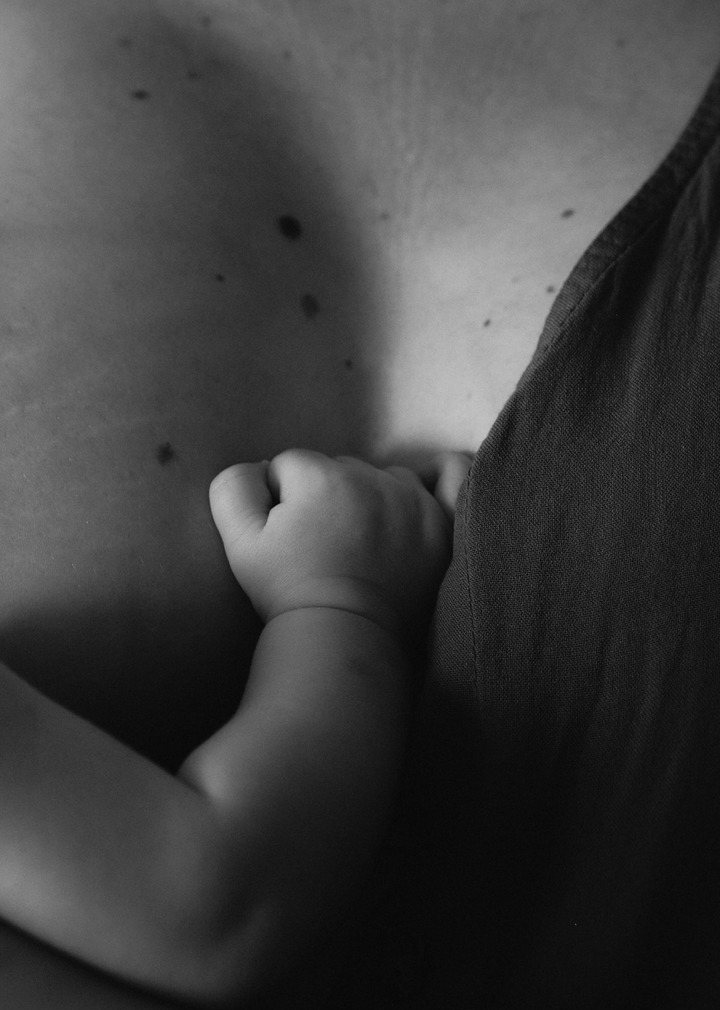
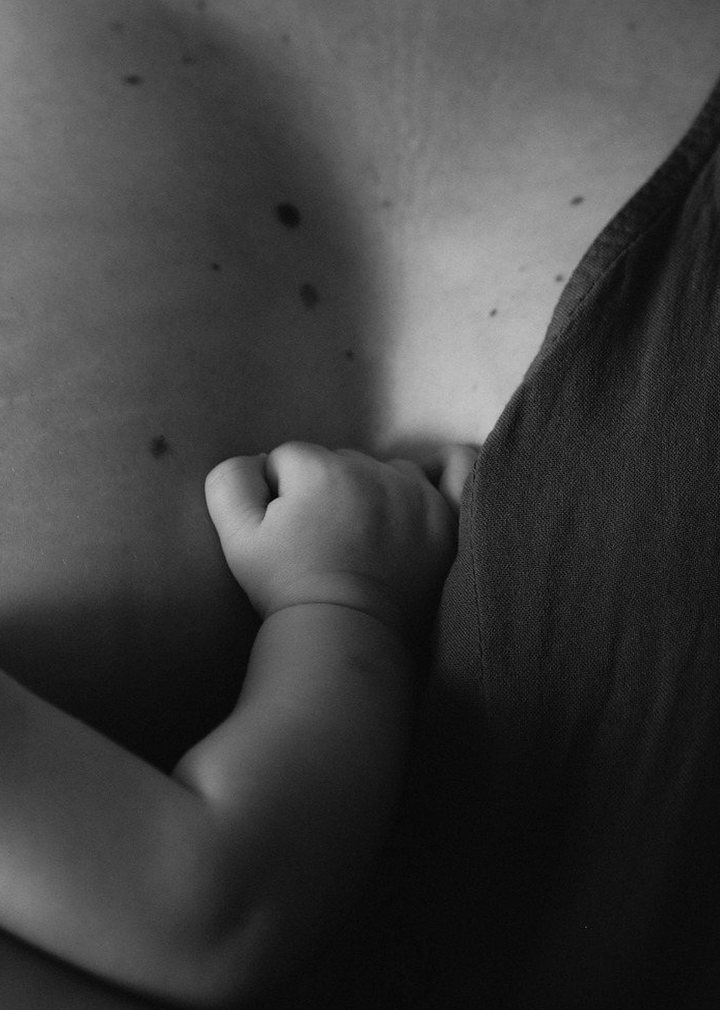
Alinea color i B/N de les fotos nuvis i maneta (mateix enquadrament)
Claude-Session: https://claude.ai/code/session_01Gu4fKh15S1mJkh4ThjJ3MW

diff --git a/index.html b/index.html
@@ -258,7 +258,7 @@ body,.page{color:#f2ecde}
 <header class="bar" aria-hidden="true"><a class="wm" href="#inici">Pau Fotografia</a><nav><a href="#contacte" data-t="cont">Contacte</a></nav></header>
 <main class="page" id="inici">
   <section class="hero">
-    <picture><source media="(min-width:1200px)" srcset="/pack/hero-wide.jpg?v=20261118j"><img src="/pack/hero.jpg?v=20261118j" alt="Pau amb ulleres, fons desenfocat i una finestra nítida sobre mig rostre" fetchpriority="high"></picture>
+    <picture><source media="(min-width:1200px)" srcset="/pack/hero-wide.jpg?v=20261119a"><img src="/pack/hero.jpg?v=20261119a" alt="Pau amb ulleres, fons desenfocat i una finestra nítida sobre mig rostre" fetchpriority="high"></picture>
     <div class="top"><div class="sm" data-t="tag">Fotògraf social i documental</div>
       <div class="ctrls"><div class="toggle lang" role="group" aria-label="Idioma"><button class="on" data-lang="ca">CAT</button><span>|</span><button data-lang="es">ESP</button><span>|</span><button data-lang="en">ENG</button></div></div></div>
     <h1>Pau Fotografia</h1>
@@ -269,14 +269,14 @@ body,.page{color:#f2ecde}
     <div class="quote"><p data-t="quote">«El document humà per mantenir el present i el futur en contacte amb el passat.»</p><div class="lb">Lewis Hine</div></div>
   </section>
   <div class="hl"></div>
-  <div class="slider multi sl-elvi" style="aspect-ratio:1080/1150"><div class="track"><figure class="slide"><img class="b" data-v="elvi" src="/pack/elvi-color.jpg?v=20261118j" alt="Elvi somrient amb un floc de cabell davant la cara" loading="eager" style="object-position:50% 30%"><img class="o" data-v="elvi" src="/pack/elvi-bn.jpg?v=20261118j" alt="" aria-hidden="true" loading="lazy" style="object-position:50% 30%"><button class="sw" type="button" aria-label="Veure en blanc i negre"><i></i></button></figure><figure class="slide"><img class="b" data-v="elvi-01" src="/pack/elvi-01-color.jpg?v=20261118j" alt="Elvi amb les mans als cabells" loading="lazy" style="object-position:50% 30%"><img class="o" data-v="elvi-01" src="/pack/elvi-01-bn.jpg?v=20261118j" alt="" aria-hidden="true" loading="lazy" style="object-position:50% 30%"><button class="sw" type="button" aria-label="Veure en blanc i negre"><i></i></button></figure><figure class="slide"><img class="b" data-v="elvi-03" src="/pack/elvi-03-color.jpg?v=20261118j" alt="Elvi mirant de reüll" loading="lazy" style="object-position:50% 30%"><img class="o" data-v="elvi-03" src="/pack/elvi-03-bn.jpg?v=20261118j" alt="" aria-hidden="true" loading="lazy" style="object-position:50% 30%"><button class="sw" type="button" aria-label="Veure en blanc i negre"><i></i></button></figure><figure class="slide"><img class="b" data-v="elvi-04" src="/pack/elvi-04-color.jpg?v=20261118j" alt="Elvi de perfil a la finestra" loading="lazy" style="object-position:50% 30%"><img class="o" data-v="elvi-04" src="/pack/elvi-04-bn.jpg?v=20261118j" alt="" aria-hidden="true" loading="lazy" style="object-position:50% 30%"><button class="sw" type="button" aria-label="Veure en blanc i negre"><i></i></button></figure><figure class="slide"><img class="b" data-v="elvi-05" src="/pack/elvi-05-color.jpg?v=20261118j" alt="Elvi amb la llum de la cortina" loading="lazy" style="object-position:50% 30%"><img class="o" data-v="elvi-05" src="/pack/elvi-05-bn.jpg?v=20261118j" alt="" aria-hidden="true" loading="lazy" style="object-position:50% 30%"><button class="sw" type="button" aria-label="Veure en blanc i negre"><i></i></button></figure></div><div class="dots"><i class=on></i><i></i><i></i><i></i><i></i></div><div class="count">1/5</div><button class="nav prev" aria-label="Anterior">‹</button><button class="nav next" aria-label="Següent">›</button></div>
+  <div class="slider multi sl-elvi" style="aspect-ratio:1080/1150"><div class="track"><figure class="slide"><img class="b" data-v="elvi" src="/pack/elvi-color.jpg?v=20261119a" alt="Elvi somrient amb un floc de cabell davant la cara" loading="eager" style="object-position:50% 30%"><img class="o" data-v="elvi" src="/pack/elvi-bn.jpg?v=20261119a" alt="" aria-hidden="true" loading="lazy" style="object-position:50% 30%"><button class="sw" type="button" aria-label="Veure en blanc i negre"><i></i></button></figure><figure class="slide"><img class="b" data-v="elvi-01" src="/pack/elvi-01-color.jpg?v=20261119a" alt="Elvi amb les mans als cabells" loading="lazy" style="object-position:50% 30%"><img class="o" data-v="elvi-01" src="/pack/elvi-01-bn.jpg?v=20261119a" alt="" aria-hidden="true" loading="lazy" style="object-position:50% 30%"><button class="sw" type="button" aria-label="Veure en blanc i negre"><i></i></button></figure><figure class="slide"><img class="b" data-v="elvi-03" src="/pack/elvi-03-color.jpg?v=20261119a" alt="Elvi mirant de reüll" loading="lazy" style="object-position:50% 30%"><img class="o" data-v="elvi-03" src="/pack/elvi-03-bn.jpg?v=20261119a" alt="" aria-hidden="true" loading="lazy" style="object-position:50% 30%"><button class="sw" type="button" aria-label="Veure en blanc i negre"><i></i></button></figure><figure class="slide"><img class="b" data-v="elvi-04" src="/pack/elvi-04-color.jpg?v=20261119a" alt="Elvi de perfil a la finestra" loading="lazy" style="object-position:50% 30%"><img class="o" data-v="elvi-04" src="/pack/elvi-04-bn.jpg?v=20261119a" alt="" aria-hidden="true" loading="lazy" style="object-position:50% 30%"><button class="sw" type="button" aria-label="Veure en blanc i negre"><i></i></button></figure><figure class="slide"><img class="b" data-v="elvi-05" src="/pack/elvi-05-color.jpg?v=20261119a" alt="Elvi amb la llum de la cortina" loading="lazy" style="object-position:50% 30%"><img class="o" data-v="elvi-05" src="/pack/elvi-05-bn.jpg?v=20261119a" alt="" aria-hidden="true" loading="lazy" style="object-position:50% 30%"><button class="sw" type="button" aria-label="Veure en blanc i negre"><i></i></button></figure></div><div class="dots"><i class=on></i><i></i><i></i><i></i><i></i></div><div class="count">1/5</div><button class="nav prev" aria-label="Anterior">‹</button><button class="nav next" aria-label="Següent">›</button></div>
   <div class="hl"></div>
   <section class="com pad">
     <div class="lb" data-t="com">Com treballo</div>
     <p class="body" data-t="ct">Sense estudi ni decorats, als llocs quotidians i còmodes. Tu tries l'espai i el vestuari. Jo m'adapto i interfereixo el mínim perquè la càmera no sigui un obstacle per captar aquell gest, somriure o mirada espontània i real.</p>
   </section>
   <div class="hl"></div>
-  <div class="pair"><div class="slider multi sl-nuvis" style="aspect-ratio:540/720"><div class="track"><figure class="slide"><img class="b" data-v="nuvis" src="/pack/nuvis-color.jpg?v=20261118j" alt="Parella de nuvis rient a la porta" loading="lazy" style="object-position:50% 50%"><img class="o" data-v="nuvis" src="/pack/nuvis-bn.jpg?v=20261118j" alt="" aria-hidden="true" loading="lazy" style="object-position:50% 50%"><button class="sw" type="button" aria-label="Veure en blanc i negre"><i></i></button></figure><figure class="slide"><img class="b" data-v="casament-pandemia-05" src="/pack/casament-pandemia-05-color.jpg?v=20261118j" alt="Nuvis amb mascareta" loading="lazy" style="object-position:50% 50%"><img class="o" data-v="casament-pandemia-05" src="/pack/casament-pandemia-05-bn.jpg?v=20261118j" alt="" aria-hidden="true" loading="lazy" style="object-position:50% 50%"><button class="sw" type="button" aria-label="Veure en blanc i negre"><i></i></button></figure><figure class="slide mono"><img class="b" data-v="casament-pandemia-01" src="/pack/casament-pandemia-01-bn.jpg?v=20261118j" alt="Pentinat davant del mirall" loading="lazy" style="object-position:50% 50%"></figure><figure class="slide mono"><img class="b" data-v="casament-pandemia-02" src="/pack/casament-pandemia-02-bn.jpg?v=20261118j" alt="Ajustant el vestit" loading="lazy" style="object-position:50% 100%"></figure><figure class="slide mono"><img class="b" data-v="casament-pandemia-08" src="/pack/casament-pandemia-08-bn.jpg?v=20261118j" alt="La cerimònia" loading="lazy" style="object-position:50% 50%"></figure><figure class="slide"><img class="b" data-v="casament-pandemia-03" src="/pack/casament-pandemia-03-color.jpg?v=20261118j" alt="Baixant les escales" loading="lazy" style="object-position:50% 50%"><img class="o" data-v="casament-pandemia-03" src="/pack/casament-pandemia-03-bn.jpg?v=20261118j" alt="" aria-hidden="true" loading="lazy" style="object-position:50% 50%"><button class="sw" type="button" aria-label="Veure en blanc i negre"><i></i></button></figure><figure class="slide mono"><img class="b" data-v="casament-pandemia-04" src="/pack/casament-pandemia-04-bn.jpg?v=20261118j" alt="Sortida entre arròs" loading="lazy" style="object-position:50% 50%"></figure><figure class="slide"><img class="b" data-v="casament-pandemia-09" src="/pack/casament-pandemia-09-color.jpg?v=20261118j" alt="Rient a la porta" loading="lazy" style="object-position:50% 50%"><img class="o" data-v="casament-pandemia-09" src="/pack/casament-pandemia-09-bn.jpg?v=20261118j" alt="" aria-hidden="true" loading="lazy" style="object-position:50% 50%"><button class="sw" type="button" aria-label="Veure en blanc i negre"><i></i></button></figure></div><div class="dots"><i class=on></i><i></i><i></i><i></i><i></i><i></i><i></i><i></i></div><div class="count">1/8</div><button class="nav prev" aria-label="Anterior">‹</button><button class="nav next" aria-label="Següent">›</button></div><div class="slider multi sl-maneta" style="aspect-ratio:540/720"><div class="track"><figure class="slide"><img class="b" data-v="maneta" src="/pack/maneta-color.jpg?v=20261118j" alt="Mà d’un nadó sobre la pell" loading="lazy" style="object-position:50% 50%"><img class="o" data-v="maneta" src="/pack/maneta-bn.jpg?v=20261118j" alt="" aria-hidden="true" loading="lazy" style="object-position:50% 50%"><button class="sw" type="button" aria-label="Veure en blanc i negre"><i></i></button></figure><figure class="slide mono"><img class="b" data-v="bebe-01" src="/pack/bebe-01-bn.jpg?v=20261118j" alt="Un germà gran mirant el nadó" loading="lazy" style="object-position:50% 45%"></figure><figure class="slide mono"><img class="b" data-v="bebe-02" src="/pack/bebe-02-bn.jpg?v=20261118j" alt="Un nadó mamant als braços de la mare" loading="lazy" style="object-position:50% 40%"></figure><figure class="slide mono"><img class="b" data-v="bebe-03" src="/pack/bebe-03-bn.jpg?v=20261118j" alt="El braç i el puny d’un nadó" loading="lazy" style="object-position:50% 50%"></figure><figure class="slide mono"><img class="b" data-v="familia-05" src="/pack/familia-05-bn.jpg?v=20261118j" alt="Peus petits" loading="lazy" style="object-position:50% 50%"></figure><figure class="slide"><img class="b" data-v="familia-07" src="/pack/familia-07-color.jpg?v=20261118j" alt="La mà a l’esquena" loading="lazy" style="object-position:50% 50%"><img class="o" data-v="familia-07" src="/pack/familia-07-bn.jpg?v=20261118j" alt="" aria-hidden="true" loading="lazy" style="object-position:50% 50%"><button class="sw" type="button" aria-label="Veure en blanc i negre"><i></i></button></figure></div><div class="dots"><i class=on></i><i></i><i></i><i></i><i></i><i></i></div><div class="count">1/6</div><button class="nav prev" aria-label="Anterior">‹</button><button class="nav next" aria-label="Següent">›</button></div></div>
+  <div class="pair"><div class="slider multi sl-nuvis" style="aspect-ratio:540/720"><div class="track"><figure class="slide"><img class="b" data-v="nuvis" src="/pack/nuvis-color.jpg?v=20261119a" alt="Parella de nuvis rient a la porta" loading="lazy" style="object-position:50% 50%"><img class="o" data-v="nuvis" src="/pack/nuvis-bn.jpg?v=20261119a" alt="" aria-hidden="true" loading="lazy" style="object-position:50% 50%"><button class="sw" type="button" aria-label="Veure en blanc i negre"><i></i></button></figure><figure class="slide"><img class="b" data-v="casament-pandemia-05" src="/pack/casament-pandemia-05-color.jpg?v=20261119a" alt="Nuvis amb mascareta" loading="lazy" style="object-position:50% 50%"><img class="o" data-v="casament-pandemia-05" src="/pack/casament-pandemia-05-bn.jpg?v=20261119a" alt="" aria-hidden="true" loading="lazy" style="object-position:50% 50%"><button class="sw" type="button" aria-label="Veure en blanc i negre"><i></i></button></figure><figure class="slide mono"><img class="b" data-v="casament-pandemia-01" src="/pack/casament-pandemia-01-bn.jpg?v=20261119a" alt="Pentinat davant del mirall" loading="lazy" style="object-position:50% 50%"></figure><figure class="slide mono"><img class="b" data-v="casament-pandemia-02" src="/pack/casament-pandemia-02-bn.jpg?v=20261119a" alt="Ajustant el vestit" loading="lazy" style="object-position:50% 100%"></figure><figure class="slide mono"><img class="b" data-v="casament-pandemia-08" src="/pack/casament-pandemia-08-bn.jpg?v=20261119a" alt="La cerimònia" loading="lazy" style="object-position:50% 50%"></figure><figure class="slide"><img class="b" data-v="casament-pandemia-03" src="/pack/casament-pandemia-03-color.jpg?v=20261119a" alt="Baixant les escales" loading="lazy" style="object-position:50% 50%"><img class="o" data-v="casament-pandemia-03" src="/pack/casament-pandemia-03-bn.jpg?v=20261119a" alt="" aria-hidden="true" loading="lazy" style="object-position:50% 50%"><button class="sw" type="button" aria-label="Veure en blanc i negre"><i></i></button></figure><figure class="slide mono"><img class="b" data-v="casament-pandemia-04" src="/pack/casament-pandemia-04-bn.jpg?v=20261119a" alt="Sortida entre arròs" loading="lazy" style="object-position:50% 50%"></figure><figure class="slide"><img class="b" data-v="casament-pandemia-09" src="/pack/casament-pandemia-09-color.jpg?v=20261119a" alt="Rient a la porta" loading="lazy" style="object-position:50% 50%"><img class="o" data-v="casament-pandemia-09" src="/pack/casament-pandemia-09-bn.jpg?v=20261119a" alt="" aria-hidden="true" loading="lazy" style="object-position:50% 50%"><button class="sw" type="button" aria-label="Veure en blanc i negre"><i></i></button></figure></div><div class="dots"><i class=on></i><i></i><i></i><i></i><i></i><i></i><i></i><i></i></div><div class="count">1/8</div><button class="nav prev" aria-label="Anterior">‹</button><button class="nav next" aria-label="Següent">›</button></div><div class="slider multi sl-maneta" style="aspect-ratio:540/720"><div class="track"><figure class="slide"><img class="b" data-v="maneta" src="/pack/maneta-color.jpg?v=20261119a" alt="Mà d’un nadó sobre la pell" loading="lazy" style="object-position:50% 50%"><img class="o" data-v="maneta" src="/pack/maneta-bn.jpg?v=20261119a" alt="" aria-hidden="true" loading="lazy" style="object-position:50% 50%"><button class="sw" type="button" aria-label="Veure en blanc i negre"><i></i></button></figure><figure class="slide mono"><img class="b" data-v="bebe-01" src="/pack/bebe-01-bn.jpg?v=20261119a" alt="Un germà gran mirant el nadó" loading="lazy" style="object-position:50% 45%"></figure><figure class="slide mono"><img class="b" data-v="bebe-02" src="/pack/bebe-02-bn.jpg?v=20261119a" alt="Un nadó mamant als braços de la mare" loading="lazy" style="object-position:50% 40%"></figure><figure class="slide mono"><img class="b" data-v="bebe-03" src="/pack/bebe-03-bn.jpg?v=20261119a" alt="El braç i el puny d’un nadó" loading="lazy" style="object-position:50% 50%"></figure><figure class="slide mono"><img class="b" data-v="familia-05" src="/pack/familia-05-bn.jpg?v=20261119a" alt="Peus petits" loading="lazy" style="object-position:50% 50%"></figure><figure class="slide"><img class="b" data-v="familia-07" src="/pack/familia-07-color.jpg?v=20261119a" alt="La mà a l’esquena" loading="lazy" style="object-position:50% 50%"><img class="o" data-v="familia-07" src="/pack/familia-07-bn.jpg?v=20261119a" alt="" aria-hidden="true" loading="lazy" style="object-position:50% 50%"><button class="sw" type="button" aria-label="Veure en blanc i negre"><i></i></button></figure></div><div class="dots"><i class=on></i><i></i><i></i><i></i><i></i><i></i></div><div class="count">1/6</div><button class="nav prev" aria-label="Anterior">‹</button><button class="nav next" aria-label="Següent">›</button></div></div>
   <div class="hl"></div>
   <section class="pack">
     <div class="prow"><button class="pill" type="button" aria-haspopup="dialog"><span data-t="pack">Pack promocional – Llançament</span><i class="pplus" aria-hidden="true"></i></button><div class="price">89 €<span class="ast">*</span></div>
@@ -284,9 +284,9 @@ body,.page{color:#f2ecde}
     <div class="ptypes" data-t="tipus"><span>Retrat</span><i>·</i><span>Família</span><i>·</i><span>Embaràs</span><i>·</i><span>Parella</span></div>
   </section>
   <div class="hl"></div>
-  <div class="slider sl-mocador" style="aspect-ratio:1080/720"><div class="track"><figure class="slide"><img class="b" data-v="mocador" src="/pack/mocador-color.jpg?v=20261118j" alt="Retrat d’una dona amb mocador entre el fum" loading="lazy" style="object-position:50% 40%"><img class="o" data-v="mocador" src="/pack/mocador-bn.jpg?v=20261118j" alt="" aria-hidden="true" loading="lazy" style="object-position:50% 40%"><button class="sw" type="button" aria-label="Veure en blanc i negre"><i></i></button></figure></div></div>
+  <div class="slider sl-mocador" style="aspect-ratio:1080/720"><div class="track"><figure class="slide"><img class="b" data-v="mocador" src="/pack/mocador-color.jpg?v=20261119a" alt="Retrat d’una dona amb mocador entre el fum" loading="lazy" style="object-position:50% 40%"><img class="o" data-v="mocador" src="/pack/mocador-bn.jpg?v=20261119a" alt="" aria-hidden="true" loading="lazy" style="object-position:50% 40%"><button class="sw" type="button" aria-label="Veure en blanc i negre"><i></i></button></figure></div></div>
   <div class="hl"></div>
-  <div class="pair"><div class="slider multi sl-ulleres" style="aspect-ratio:540/720"><div class="track"><figure class="slide"><img class="b" data-v="ulleres" src="/pack/ulleres-color.jpg?v=20261118j" alt="Home rient amb ulleres de sol" loading="lazy" style="object-position:50% 50%"><img class="o" data-v="ulleres" src="/pack/ulleres-bn.jpg?v=20261118j" alt="" aria-hidden="true" loading="lazy" style="object-position:50% 50%"><button class="sw" type="button" aria-label="Veure en blanc i negre"><i></i></button></figure><figure class="slide"><img class="b" data-v="llum-desembre-05" src="/pack/llum-desembre-05-color.jpg?v=20261118j" alt="Cara al sol" loading="lazy" style="object-position:64% 50%"><img class="o" data-v="llum-desembre-05" src="/pack/llum-desembre-05-bn.jpg?v=20261118j" alt="" aria-hidden="true" loading="lazy" style="object-position:64% 50%"><button class="sw" type="button" aria-label="Veure en blanc i negre"><i></i></button></figure><figure class="slide"><img class="b" data-v="llum-desembre-02" src="/pack/llum-desembre-02-color.jpg?v=20261118j" alt="Somriure amb caputxa" loading="lazy" style="object-position:52% 50%"><img class="o" data-v="llum-desembre-02" src="/pack/llum-desembre-02-bn.jpg?v=20261118j" alt="" aria-hidden="true" loading="lazy" style="object-position:52% 50%"><button class="sw" type="button" aria-label="Veure en blanc i negre"><i></i></button></figure><figure class="slide"><img class="b" data-v="llum-desembre-04" src="/pack/llum-desembre-04-color.jpg?v=20261118j" alt="Per sobre de les ulleres" loading="lazy" style="object-position:56% 50%"><img class="o" data-v="llum-desembre-04" src="/pack/llum-desembre-04-bn.jpg?v=20261118j" alt="" aria-hidden="true" loading="lazy" style="object-position:56% 50%"><button class="sw" type="button" aria-label="Veure en blanc i negre"><i></i></button></figure><figure class="slide"><img class="b" data-v="llum-desembre-01" src="/pack/llum-desembre-01-color.jpg?v=20261118j" alt="Mitja cara a la llum" loading="lazy" style="object-position:54% 50%"><img class="o" data-v="llum-desembre-01" src="/pack/llum-desembre-01-bn.jpg?v=20261118j" alt="" aria-hidden="true" loading="lazy" style="object-position:54% 50%"><button class="sw" type="button" aria-label="Veure en blanc i negre"><i></i></button></figure></div><div class="dots"><i class=on></i><i></i><i></i><i></i><i></i></div><div class="count">1/5</div><button class="nav prev" aria-label="Anterior">‹</button><button class="nav next" aria-label="Següent">›</button></div><div class="slider multi sl-confeti" style="aspect-ratio:540/720"><div class="track"><figure class="slide"><img class="b" data-v="confeti" src="/pack/confeti-color.jpg?v=20261118j" alt="Nuvis sortint entre confeti amb el ram a l’aire" loading="lazy" style="object-position:64% 50%"><img class="o" data-v="confeti" src="/pack/confeti-bn.jpg?v=20261118j" alt="" aria-hidden="true" loading="lazy" style="object-position:64% 50%"><button class="sw" type="button" aria-label="Veure en blanc i negre"><i></i></button></figure><figure class="slide"><img class="b" data-v="casament-01" src="/pack/casament-01-color.jpg?v=20261118j" alt="Sortida entre confeti" loading="lazy" style="object-position:55% 50%"><img class="o" data-v="casament-01" src="/pack/casament-01-bn.jpg?v=20261118j" alt="" aria-hidden="true" loading="lazy" style="object-position:55% 50%"><button class="sw" type="button" aria-label="Veure en blanc i negre"><i></i></button></figure></div><div class="dots"><i class=on></i><i></i></div><div class="count">1/2</div><button class="nav prev" aria-label="Anterior">‹</button><button class="nav next" aria-label="Següent">›</button></div></div>
+  <div class="pair"><div class="slider multi sl-ulleres" style="aspect-ratio:540/720"><div class="track"><figure class="slide"><img class="b" data-v="ulleres" src="/pack/ulleres-color.jpg?v=20261119a" alt="Home rient amb ulleres de sol" loading="lazy" style="object-position:50% 50%"><img class="o" data-v="ulleres" src="/pack/ulleres-bn.jpg?v=20261119a" alt="" aria-hidden="true" loading="lazy" style="object-position:50% 50%"><button class="sw" type="button" aria-label="Veure en blanc i negre"><i></i></button></figure><figure class="slide"><img class="b" data-v="llum-desembre-05" src="/pack/llum-desembre-05-color.jpg?v=20261119a" alt="Cara al sol" loading="lazy" style="object-position:64% 50%"><img class="o" data-v="llum-desembre-05" src="/pack/llum-desembre-05-bn.jpg?v=20261119a" alt="" aria-hidden="true" loading="lazy" style="object-position:64% 50%"><button class="sw" type="button" aria-label="Veure en blanc i negre"><i></i></button></figure><figure class="slide"><img class="b" data-v="llum-desembre-02" src="/pack/llum-desembre-02-color.jpg?v=20261119a" alt="Somriure amb caputxa" loading="lazy" style="object-position:52% 50%"><img class="o" data-v="llum-desembre-02" src="/pack/llum-desembre-02-bn.jpg?v=20261119a" alt="" aria-hidden="true" loading="lazy" style="object-position:52% 50%"><button class="sw" type="button" aria-label="Veure en blanc i negre"><i></i></button></figure><figure class="slide"><img class="b" data-v="llum-desembre-04" src="/pack/llum-desembre-04-color.jpg?v=20261119a" alt="Per sobre de les ulleres" loading="lazy" style="object-position:56% 50%"><img class="o" data-v="llum-desembre-04" src="/pack/llum-desembre-04-bn.jpg?v=20261119a" alt="" aria-hidden="true" loading="lazy" style="object-position:56% 50%"><button class="sw" type="button" aria-label="Veure en blanc i negre"><i></i></button></figure><figure class="slide"><img class="b" data-v="llum-desembre-01" src="/pack/llum-desembre-01-color.jpg?v=20261119a" alt="Mitja cara a la llum" loading="lazy" style="object-position:54% 50%"><img class="o" data-v="llum-desembre-01" src="/pack/llum-desembre-01-bn.jpg?v=20261119a" alt="" aria-hidden="true" loading="lazy" style="object-position:54% 50%"><button class="sw" type="button" aria-label="Veure en blanc i negre"><i></i></button></figure></div><div class="dots"><i class=on></i><i></i><i></i><i></i><i></i></div><div class="count">1/5</div><button class="nav prev" aria-label="Anterior">‹</button><button class="nav next" aria-label="Següent">›</button></div><div class="slider multi sl-confeti" style="aspect-ratio:540/720"><div class="track"><figure class="slide"><img class="b" data-v="confeti" src="/pack/confeti-color.jpg?v=20261119a" alt="Nuvis sortint entre confeti amb el ram a l’aire" loading="lazy" style="object-position:64% 50%"><img class="o" data-v="confeti" src="/pack/confeti-bn.jpg?v=20261119a" alt="" aria-hidden="true" loading="lazy" style="object-position:64% 50%"><button class="sw" type="button" aria-label="Veure en blanc i negre"><i></i></button></figure><figure class="slide"><img class="b" data-v="casament-01" src="/pack/casament-01-color.jpg?v=20261119a" alt="Sortida entre confeti" loading="lazy" style="object-position:55% 50%"><img class="o" data-v="casament-01" src="/pack/casament-01-bn.jpg?v=20261119a" alt="" aria-hidden="true" loading="lazy" style="object-position:55% 50%"><button class="sw" type="button" aria-label="Veure en blanc i negre"><i></i></button></figure></div><div class="dots"><i class=on></i><i></i></div><div class="count">1/2</div><button class="nav prev" aria-label="Anterior">‹</button><button class="nav next" aria-label="Següent">›</button></div></div>
   <div class="hl"></div>
   <section class="contact pad" id="contacte">
     <div class="gear">
@@ -323,7 +323,7 @@ document.querySelectorAll('.slider.multi').forEach(function(s){
 var MODE='color';
 function L(){var l=document.documentElement.lang;return {ca:{swb:'Veure en blanc i negre',swc:'Veure en color'},es:{swb:'Ver en blanco y negro',swc:'Ver en color'},en:{swb:'View in black and white',swc:'View in colour'}}[l]||{swb:'Veure en blanc i negre',swc:'Veure en color'}}
 function other(){return MODE==='bn'?'color':'bn'}
-function src2(o){return '/pack/'+o.dataset.v+'-'+other()+'.jpg?v=20261118j'}
+function src2(o){return '/pack/'+o.dataset.v+'-'+other()+'.jpg?v=20261119a'}
 function setX(f,x,anim){
   var o=f.querySelector('.o');if(!o.getAttribute('src'))o.src=src2(o);
   f.classList.toggle('drag',!anim);f._x=x;
